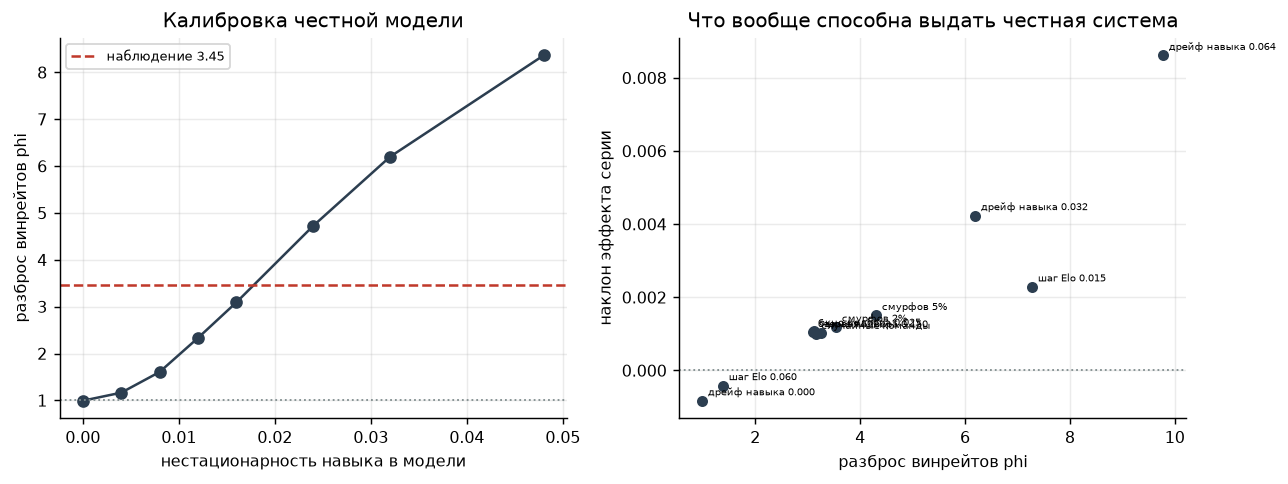
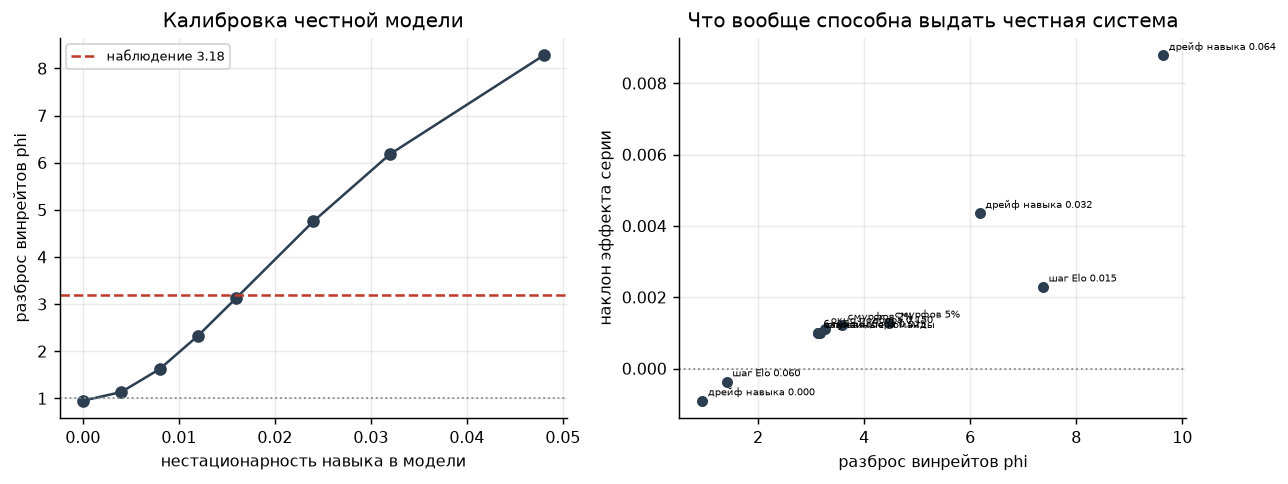
dota-mm-study: финальный прогон на 2.95 млн матчей
Итоговая выборка: 1274 игрока с выгруженной историей, 1.31 млн матчей в окне
исследования, 1050 игроков с историей от 200 матчей, 1146 матчей с составами —
все предрегистрированные цели по объёму достигнуты.

Результаты: phi=3.18 (жёсткая подкрутка отвергается), эффект серии +0.26 п.п. за
шаг при предсказании честной модели +0.10 п.п. и знаке, противоположном
подкрутке; канал состава нулевой с границей 0.24 п.п.

diff --git a/dota-mm-study/scripts/build_report.py b/dota-mm-study/scripts/build_report.py
@@ -121,7 +121,8 @@ def _summary(ab: dict, cd: dict, null_model: dict) -> str:
         f"сведение к 50% требует отношения меньше единицы.",
         "",
         f"Эффект серии на исход следующего матча оказался **{direction}**: "
-        f"{_pp(slope)} за каждый шаг серии (стандартная ошибка {_fmt(slope_se, 5)}). "
+        f"{_pp(slope)} за каждый шаг серии "
+        f"(стандартная ошибка {(slope_se or 0) * 100:.3f} п.п.). "
         f"Подкрутка предсказывает отрицательный знак — после победной серии "
         f"выигрывать должно становиться труднее. Наблюдается обратное.",
         "",
@@ -385,7 +386,7 @@ def _test_a_section(ab: dict, null_model: dict) -> str:
         f"(99% ДИ {_fmt(ci[0], 3)}-{_fmt(ci[1], 3)}) |",
         f"| Разброс истинных винрейтов | {_fmt(disp['true_sd'])} |",
         "",
-        f"**Вывод: {disp.get('verdict', '')}.**",
+        f"**Вывод — {disp.get('verdict', '')}.**",
         "",
         f"Содержательно это означает, что различия между игроками реальны: после "
         f"вычитания случайного шума стандартное отклонение истинного винрейта "
@@ -439,7 +440,7 @@ def _test_b_section(ab: dict, null_model: dict) -> str:
         "| Оценка | Наклон за шаг серии |",
         "| --- | --- |",
         f"| Наблюдение | {_pp(streaks.get('slope_real'))} "
-        f"(SE {_fmt(streaks.get('slope_real_se'), 5)}) |",
+        f"(SE {(streaks.get('slope_real_se') or 0) * 100:.3f} п.п.) |",
         f"| Наблюдение с контролем на движение ранга, пати и позицию в сессии | "
         f"{_pp(streaks.get('slope_real_controlled'))} |",
         f"| Предсказание честной модели | {_pp(streaks.get('slope_null_model'))} |",

diff --git a/dota-mm-study/scripts/run_tests_ab.py b/dota-mm-study/scripts/run_tests_ab.py
@@ -293,10 +293,16 @@ def _plot(tallies, disp_real, null_model, curve, fe_ind, names) -> None:
     ax.legend(fontsize=7)
 
     ax = axes[1]
+    # Нулевая серия — это первый матч игрока, ячейка почти пустая, и её
+    # доверительный интервал сжимал бы весь остальной график.
+    keep = curve.streak != 0
     ax.errorbar(
-        curve.streak,
-        curve.winrate,
-        yerr=[curve.winrate - curve.lo, curve.hi - curve.winrate],
+        curve.streak[keep],
+        curve.winrate[keep],
+        yerr=[
+            (curve.winrate - curve.lo)[keep],
+            (curve.hi - curve.winrate)[keep],
+        ],
         fmt="o-",
         color=ACCENT,
         capsize=3,

diff --git a/dota-mm-study/reports/report.md b/dota-mm-study/reports/report.md
@@ -4,15 +4,15 @@
 
 ## Короткий ответ
 
-Жёсткая подкрутка, то есть механизм, принудительно сводящий винрейт к 50%, **отвергается**. Разброс карьерных винрейтов оказался в 3.40 раза шире биномиального (99% ДИ 2.64-4.37), тогда как принудительное сведение к 50% требует отношения меньше единицы.
+Жёсткая подкрутка, то есть механизм, принудительно сводящий винрейт к 50%, **отвергается**. Разброс карьерных винрейтов оказался в 3.18 раза шире биномиального (99% ДИ 2.54-4.09), тогда как принудительное сведение к 50% требует отношения меньше единицы.
 
-Эффект серии на исход следующего матча оказался **положительный**: +0.25 п.п. за каждый шаг серии (стандартная ошибка 0.00031). Подкрутка предсказывает отрицательный знак — после победной серии выигрывать должно становиться труднее. Наблюдается обратное.
+Эффект серии на исход следующего матча оказался **положительный**: +0.26 п.п. за каждый шаг серии (стандартная ошибка 0.023 п.п.). Подкрутка предсказывает отрицательный знак — после победной серии выигрывать должно становиться труднее. Наблюдается обратное.
 
 Честная рейтинговая система, откалиброванная по наблюдаемому разбросу винрейтов, предсказывает наклон +0.10 п.п. Наблюдаемое значение того же знака и того же порядка.
 
-Самый отрицательный наклон, достижимый честной системой при разумных параметрах, составляет -0.08 п.п. Наблюдаемое значение лежит далеко в противоположной стороне, что даёт верхнюю границу на возможную подкрутку.
+Самый отрицательный наклон, достижимый честной системой при разумных параметрах, составляет -0.09 п.п. Наблюдаемое значение лежит далеко в противоположной стороне, что даёт верхнюю границу на возможную подкрутку.
 
-Тест на разделение механизмов показывает, что зависимость исхода от серии идёт через **собственную игру человека**, а не через состав команды: собственный перформанс меняется на +0.0029 стандартного отклонения за шаг серии.
+Тест на разделение механизмов показывает, что зависимость исхода от серии идёт через **собственную игру человека**, а не через состав команды: собственный перформанс меняется на +0.0031 стандартного отклонения за шаг серии.
 
 ## Данные
 
@@ -20,10 +20,10 @@
 | --- | --- |
 | Публичных матчей в позитивных контролях | 5,158,382 |
 | Игроков в выборке | 4,323 |
-| Историй выгружено | 960 |
-| Матчей игроков всего | 2,226,119 |
-| Матчей в основной выборке | 750,702 |
-| Игроков в основной выборке | 740 |
+| Историй выгружено | 1,274 |
+| Матчей игроков всего | 2,954,084 |
+| Матчей в основной выборке | 1,314,065 |
+| Игроков в основной выборке | 1,270 |
 | Матчей с полными составами | 1,146 |
 
 Рамка выборки — случайные публичные ranked-матчи со стратификацией по брекетам, разобранные на участников. Такая выборка взвешена по активности: чем чаще человек играет, тем вероятнее он в неё попадёт. Именно она отвечает на вопрос «как устроен типичный матч».
@@ -64,7 +64,7 @@
 
 Поэтому наблюдения сравниваются не с нулём, а с симулятором честного матчмейкинга: рейтинг по Elo, подбор строго по рейтингу, исход только от силы команд, никакой подкрутки по построению.
 
-Оказалось, что предсказания честной системы сильно зависят от того, насколько подвижен навык игроков: разброс винрейтов пробегает диапазон от 0.99 до 9.78, а наклон эффекта серии — от -0.08 п.п. до +0.86 п.п. Точечное сравнение с одной симуляцией было бы поэтому бессмысленным.
+Оказалось, что предсказания честной системы сильно зависят от того, насколько подвижен навык игроков: разброс винрейтов пробегает диапазон от 0.95 до 9.64, а наклон эффекта серии — от -0.09 п.п. до +0.88 п.п. Точечное сравнение с одной симуляцией было бы поэтому бессмысленным.
 
 Решение: единственный свободный параметр модели, нестационарность навыка, подбирается так, чтобы совпал наблюдаемый разброс винрейтов. После этого наклон эффекта серии перестаёт быть подгоняемой величиной и становится **предсказанием** модели, которое можно честно сравнить с наблюдением.
 
@@ -72,7 +72,7 @@
 
 ![Нулевая модель](figures/null_model.png)
 
-Честное замечание о пределах модели: наблюдаемая подвижность ранга (0.361 от разброса рангов в популяции) выше той, что воспроизводит откалиброванная модель. Расхождение ожидаемо — в Dota 2 есть сезонные пересчёты рейтинга и шум измерения `average_rank`, которых в модели нет.
+Честное замечание о пределах модели: наблюдаемая подвижность ранга (0.349 от разброса рангов в популяции) выше той, что воспроизводит откалиброванная модель. Расхождение ожидаемо — в Dota 2 есть сезонные пересчёты рейтинга и шум измерения `average_rank`, которых в модели нет.
 
 ## Негативный контроль: а увидели бы мы подкрутку, если бы она была
 
@@ -80,15 +80,15 @@
 
 | Внедрено, п.п. за шаг | Измеренный наклон | Средний z теста серий |
 | --- | --- | --- |
-| 0.00 | +0.05 п.п. | -0.083 |
-| 0.25 | -0.17 п.п. | +0.120 |
-| 0.50 | -0.40 п.п. | +0.313 |
-| 1.00 | -0.86 п.п. | +0.731 |
-| 2.00 | -1.70 п.п. | +1.464 |
+| 0.00 | +0.04 п.п. | -0.084 |
+| 0.25 | -0.17 п.п. | +0.124 |
+| 0.50 | -0.42 п.п. | +0.331 |
+| 1.00 | -0.86 п.п. | +0.738 |
+| 2.00 | -1.68 п.п. | +1.454 |
 
-Тест восстанавливает внедрённый эффект почти один к одному: при внедрении 2.0 п.п. измеренный наклон сдвигается на -1.75 п.п. Знак меняется уже при самой слабой из проверенных подкруток в 0.25 п.п.
+Тест восстанавливает внедрённый эффект почти один к одному: при внедрении 2.0 п.п. измеренный наклон сдвигается на -1.73 п.п. Знак меняется уже при самой слабой из проверенных подкруток в 0.25 п.п.
 
-Наблюдаемое значение +0.25 п.п. отстоит от результата самой слабой смоделированной подкрутки на 14 стандартных ошибок. Подкрутка такого размера в данных исключена.
+Наблюдаемое значение +0.26 п.п. отстоит от результата самой слабой смоделированной подкрутки на 18 стандартных ошибок. Подкрутка такого размера в данных исключена.
 
 Отдельная находка касается механизма. Если бы система перекашивала **составы** внутри матча, эффект был бы слабым при любой силе вмешательства: подобранные в один матч игроки почти равны по рейтингу, поэтому перестановка их между командами физически не способна сильно сдвинуть исход. Заметная подкрутка через состав потребовала бы расширения окна подбора, а это наблюдаемо — и проверяется отдельным каналом в тесте D.
 
@@ -100,19 +100,19 @@
 
 | Показатель | Значение |
 | --- | --- |
-| Игроков в когорте | 617 |
-| Матчей | 739,709 |
-| Средний винрейт | 0.5053 |
-| Наблюдаемый разброс | 0.0334 |
-| Разброс при чистой случайности | 0.0188 |
-| Коэффициент дисперсии phi | 3.401 (99% ДИ 2.642-4.368) |
-| Разброс истинных винрейтов | 0.0276 |
+| Игроков в когорте | 1,050 |
+| Матчей | 1,293,664 |
+| Средний винрейт | 0.5059 |
+| Наблюдаемый разброс | 0.0310 |
+| Разброс при чистой случайности | 0.0187 |
+| Коэффициент дисперсии phi | 3.184 (99% ДИ 2.537-4.091) |
+| Разброс истинных винрейтов | 0.0248 |
 
-**Вывод: сверхдисперсия: жёсткая подкрутка отвергается.**
+**Вывод — сверхдисперсия: жёсткая подкрутка отвергается.**
 
-Содержательно это означает, что различия между игроками реальны: после вычитания случайного шума стандартное отклонение истинного винрейта составляет 0.0276, то есть около 2.8 процентных пунктов. Система эти различия не стирает.
+Содержательно это означает, что различия между игроками реальны: после вычитания случайного шума стандартное отклонение истинного винрейта составляет 0.0248, то есть около 2.5 процентных пунктов. Система эти различия не стирает.
 
-Проверка на смурфов: после их исключения phi составляет 3.319 против 3.401 на полной выборке. Избыточный разброс не сводится к смурфам.
+Проверка на смурфов: после их исключения phi составляет 3.127 против 3.184 на полной выборке. Избыточный разброс не сводится к смурфам.
 
 ![Тесты A и B](figures/tests_ab.png)
 
@@ -120,51 +120,52 @@
 
 | Серия перед матчем | Матчей | Доля побед | 99% ДИ |
 | --- | --- | --- | --- |
-| -5 | 26,679 | 0.4917 | 0.4838-0.4995 |
-| -4 | 24,819 | 0.4943 | 0.4861-0.5024 |
-| -3 | 48,263 | 0.4996 | 0.4938-0.5055 |
-| -2 | 94,206 | 0.4989 | 0.4947-0.5031 |
-| -1 | 185,252 | 0.5035 | 0.5005-0.5064 |
-| +1 | 185,881 | 0.5050 | 0.5020-0.5080 |
-| +2 | 91,825 | 0.5130 | 0.5088-0.5173 |
-| +3 | 46,081 | 0.5079 | 0.5019-0.5139 |
-| +4 | 22,936 | 0.5254 | 0.5169-0.5339 |
-| +5 | 24,671 | 0.5317 | 0.5235-0.5399 |
+| -5 | 46,587 | 0.4901 | 0.4842-0.4961 |
+| -4 | 43,137 | 0.4953 | 0.4891-0.5015 |
+| -3 | 84,040 | 0.4995 | 0.4950-0.5039 |
+| -2 | 164,684 | 0.5007 | 0.4975-0.5039 |
+| -1 | 324,136 | 0.5035 | 0.5013-0.5058 |
+| +0 | 160 | 0.5500 | 0.4487-0.6473 |
+| +1 | 325,098 | 0.5059 | 0.5036-0.5081 |
+| +2 | 161,140 | 0.5119 | 0.5087-0.5151 |
+| +3 | 80,759 | 0.5111 | 0.5066-0.5156 |
+| +4 | 40,503 | 0.5246 | 0.5182-0.5310 |
+| +5 | 43,821 | 0.5342 | 0.5280-0.5403 |
 
 Сырые доли смешивают два разных явления: сильные игроки и выигрывают чаще, и чаще имеют длинные победные серии. Поэтому основная оценка делается с фиксированными эффектами игрока, то есть сравнивает матчи одного и того же человека между собой, а стандартные ошибки кластеризуются по игроку.
 
 | Оценка | Наклон за шаг серии |
 | --- | --- |
-| Наблюдение | +0.25 п.п. (SE 0.00031) |
-| Наблюдение с контролем на движение ранга, пати и позицию в сессии | +0.27 п.п. |
+| Наблюдение | +0.26 п.п. (SE 0.023 п.п.) |
+| Наблюдение с контролем на движение ранга, пати и позицию в сессии | +0.28 п.п. |
 | Предсказание честной модели | +0.10 п.п. |
-| Разница | +0.14 п.п. (p=0.0000) |
+| Разница | +0.16 п.п. (p=0.0000) |
 
 **Знак противоположен предсказанию подкрутки.** Гипотеза о наказании за победную серию требует отрицательного наклона: после побед выигрывать должно становиться труднее. В данных наблюдается обратное — победы слабо, но устойчиво предсказывают следующую победу.
 
-Проверка гипотезы о таргетированном вмешательстве: наклон после побед составляет +0.43 п.п., после поражений +0.10 п.п. Разница +0.33 п.п. при p=0.0004.
+Проверка гипотезы о таргетированном вмешательстве: наклон после побед составляет +0.45 п.п., после поражений +0.11 п.п. Разница +0.34 п.п. при p=0.0000.
 
-Непараметрическая проверка структуры последовательности (тест Уолда-Вольфовица) по 668 игрокам даёт средний z = -0.326: серии длиннее, чем при случайной последовательности. Подкрутка предсказывала бы противоположный знак, поскольку сглаживание серий — это и есть её наблюдаемое проявление.
+Непараметрическая проверка структуры последовательности (тест Уолда-Вольфовица) по 1,150 игрокам даёт средний z = -0.335: серии длиннее, чем при случайной последовательности. Подкрутка предсказывала бы противоположный знак, поскольку сглаживание серий — это и есть её наблюдаемое проявление.
 
 ## Тест C: перекос состава команды
 
 Самый прямой из возможных тестов. Если система «наказывает» за победную серию, у неё есть ровно один рычаг — состав матча. Поэтому измеряется разница средней силы четырёх союзников и пяти соперников как функция серии. При честном подборе это математический ноль при любой серии.
 
-Наблюдений: 1,097 по 683 игрокам. Средний перекос +0.0790 (SE 0.1210).
+Наблюдений: 1,484 по 1,067 игрокам. Средний перекос +0.0556 (SE 0.1057).
 
 | Серия | Наблюдений | Перекос союзники минус соперники |
 | --- | --- | --- |
-| -3 | 212 | -0.142 ± 0.284 |
-| -2 | 183 | -0.016 ± 0.348 |
-| -1 | 169 | +0.319 ± 0.282 |
-| +0 | 1 | -4.076 ± нет данных |
-| +1 | 183 | +0.351 ± 0.259 |
-| +2 | 174 | -0.211 ± 0.306 |
-| +3 | 175 | +0.242 ± 0.291 |
+| -3 | 274 | +0.001 ± 0.251 |
+| -2 | 237 | -0.272 ± 0.306 |
+| -1 | 248 | +0.071 ± 0.264 |
+| +0 | 1 | -4.232 ± нет данных |
+| +1 | 272 | +0.372 ± 0.216 |
+| +2 | 227 | -0.128 ± 0.260 |
+| +3 | 225 | +0.272 ± 0.259 |
 
-Наклон перекоса по серии: +0.04226 (SE 0.08447). Подкрутка требует значимо отрицательного значения.
+Наклон перекоса по серии: +0.04444 (SE 0.08720). Подкрутка требует значимо отрицательного значения.
 
-Ограничение теста: в среднем 6% участников матча скрывают профиль, и их сила ненаблюдаема.
+Ограничение теста: в среднем 5% участников матча скрывают профиль, и их сила ненаблюдаема.
 
 ![Тесты C и D](figures/tests_cd.png)
 
@@ -179,12 +180,12 @@
 
 | Канал | Изменение за шаг серии | 99% ДИ | Наблюдений |
 | --- | --- | --- | --- |
-| собственный перформанс игрока | +0.00288 | +0.00149 … +0.00427 | 846,395 |
-| сила союзников | +0.12518 | -0.19068 … +0.44105 | 532 |
-| сила соперников | +0.08032 | -0.19472 … +0.35537 | 532 |
-| перекос состава | +0.04486 | -0.14775 … +0.23747 | 532 |
+| собственный перформанс игрока | +0.00306 | +0.00184 … +0.00427 | 1,314,062 |
+| сила союзников | +0.12063 | -0.20011 … +0.44137 | 537 |
+| сила соперников | +0.07311 | -0.21160 … +0.35782 | 537 |
+| перекос состава | +0.04752 | -0.15110 … +0.24614 | 537 |
 
-Собственный перформанс игрока растёт вместе с серией: +0.00288 стандартного отклонения за шаг. Это означает, что зависимость исхода от серии в значительной мере порождается самим человеком, а не подбором соперников.
+Собственный перформанс игрока растёт вместе с серией: +0.00306 стандартного отклонения за шаг. Это означает, что зависимость исхода от серии в значительной мере порождается самим человеком, а не подбором соперников.
 
 ## Кто населяет рейтинг: смурфы, слабые игроки и постоянные жители
 
@@ -192,13 +193,13 @@
 
 | Когорта | Игроков | Винрейт | Подъём ранга в месяц | Перформанс |
 | --- | --- | --- | --- | --- |
-| житель рейтинга | 612 | 0.5068 | +0.32 | +0.00 |
-| смурф | 34 | 0.5473 | +4.10 | +1.42 |
-| слабый игрок | 34 | 0.4468 | -0.75 | -1.47 |
+| житель рейтинга | 1,083 | 0.5078 | +0.36 | -0.02 |
+| смурф | 61 | 0.5521 | +4.72 | +1.61 |
+| слабый игрок | 61 | 0.4529 | -0.44 | -1.29 |
 
 Признаки смурфа: быстрый подъём по брекетам, перформанс выше уровня своего брекета с самых первых матчей, молодой аккаунт. Возраст аккаунта оценивается по двум независимым источникам — полной истории матчей до окна исследования и калибровочной кривой, связывающей номер аккаунта с датой регистрации, поскольку Steam выдаёт номера почти монотонно по времени.
 
-Проверка на заведомых случаях (молодые аккаунты, добравшиеся до Divine, против аккаунтов с многолетней стабильной историей) даёт AUC 0.815. AUC разделения заведомых смурфов и жителей рейтинга; без возрастной компоненты 0.784.
+Проверка на заведомых случаях (молодые аккаунты, добравшиеся до Divine, против аккаунтов с многолетней стабильной историей) даёт AUC 0.845. AUC разделения заведомых смурфов и жителей рейтинга; без возрастной компоненты 0.805.
 
 Это проверка согласованности, а не независимая валидация: настоящей разметки смурфов не существует.
 
@@ -208,9 +209,9 @@
 
 **Свидетельств подкрутки не обнаружено, и это утверждение количественное.**
 
-1. Жёсткая подкрутка отвергается: разброс винрейтов в 3.40 раза шире случайного, тогда как принуждение к 50% требует значения меньше единицы. Устойчивые различия между игроками существуют и системой не стираются.
+1. Жёсткая подкрутка отвергается: разброс винрейтов в 3.18 раза шире случайного, тогда как принуждение к 50% требует значения меньше единицы. Устойчивые различия между игроками существуют и системой не стираются.
 
-2. Направление эффекта серии противоположно предсказанию подкрутки: наблюдается +0.25 п.п. за шаг, то есть победы слегка предсказывают победы, а не наоборот.
+2. Направление эффекта серии противоположно предсказанию подкрутки: наблюдается +0.26 п.п. за шаг, то есть победы слегка предсказывают победы, а не наоборот.
 
 3. Наблюдаемая зависимость исхода от серии по знаку и порядку совпадает с тем, что даёт заведомо честная система (+0.10 п.п.).
 
@@ -231,29 +232,29 @@
 
 | Тест | Метрика | Значение | 99% ДИ | n | Примечание |
 | --- | --- | --- | --- | --- | --- |
-| A_dispersion | phi_real | 3.40086 | 2.6423 … 4.3676 | 617 | сверхдисперсия: жёсткая подкрутка отвергается |
+| A_dispersion | phi_real | 3.18449 | 2.5371 … 4.0912 | 1,050 | сверхдисперсия: жёсткая подкрутка отвергается |
 | A_dispersion | phi_sim | 0.71502 | 0.6783 … 0.7513 | 6,000 | нулевая модель |
-| A_dispersion | true_winrate_sd | 0.02764 | — | 617 | разброс истинных винрейтов после снятия биномиального шума |
-| B_streaks | asymmetry | 0.00326 | — | 750,702 | наклон после побед минус после поражений, p=0.0004 |
-| B_streaks | runs_mean_z | -0.32587 | — | 668 | отрицательный знак означает более длинные серии, чем при случайности |
-| B_streaks | slope_diff | 0.00144 | — | 750,702 |  |
-| B_streaks | slope_diff_p | 0.00001 | — | 750,702 | реальность против откалиброванной честной модели |
-| B_streaks | slope_null_model | 0.00104 | — | 750,702 |  |
-| B_streaks | slope_real | 0.00247 | — | 750,702 |  |
-| B_streaks | slope_real_controlled | 0.00265 | — | 750,702 |  |
+| A_dispersion | true_winrate_sd | 0.02478 | — | 1,050 | разброс истинных винрейтов после снятия биномиального шума |
+| B_streaks | asymmetry | 0.00336 | — | 1,314,065 | наклон после побед минус после поражений, p=0.0000 |
+| B_streaks | runs_mean_z | -0.33454 | — | 1,150 | отрицательный знак означает более длинные серии, чем при случайности |
+| B_streaks | slope_diff | 0.00159 | — | 1,314,065 |  |
+| B_streaks | slope_diff_p | 0.00000 | — | 1,314,065 | реальность против откалиброванной честной модели |
+| B_streaks | slope_null_model | 0.00099 | — | 1,314,065 |  |
+| B_streaks | slope_real | 0.00258 | — | 1,314,065 |  |
+| B_streaks | slope_real_controlled | 0.00276 | — | 1,314,065 |  |
 | B_streaks | slope_sim | -0.00070 | — | 340,253 |  |
-| C_roster | channel_in_winrate | 0.00052 | -0.0023 … 0.0033 | 1,097 | вклад подбора состава в эффект серии, в вероятности победы |
-| C_roster | delta_slope | 0.04226 | -0.1753 … 0.2598 | 1,097 | перекос состава как функция серии; ноль — честный подбор |
-| C_roster | delta_slope_rank_only | 0.10650 | -0.1799 … 0.3929 | 1,097 | проверка на однородной мере силы |
-| C_roster | mean_delta | 0.07897 | -0.2327 … 0.3907 | 1,097 |  |
-| D_cohorts | smurf_auc | 0.81484 | — | 323 | AUC разделения заведомых смурфов и жителей рейтинга; без возрастной компоненты 0.784 |
-| D_cohorts | smurf_share | 0.05007 | — | 679 |  |
-| D_cohorts | weak_share | 0.05007 | — | 679 |  |
-| D_decomposition | ally_skill | 0.12518 | -0.1907 … 0.4410 | 532 | сила союзников |
-| D_decomposition | delta | 0.04486 | -0.1477 … 0.2375 | 532 | перекос состава |
-| D_decomposition | enemy_skill | 0.08032 | -0.1947 … 0.3554 | 532 | сила соперников |
-| D_decomposition | own_performance | 0.00288 | 0.0015 … 0.0043 | 846,395 | собственный перформанс |
-| D_decomposition | skill_spread | -0.03116 | -0.1366 … 0.0742 | 532 | разброс силы в матче |
+| C_roster | channel_in_winrate | 0.00056 | -0.0024 … 0.0035 | 1,484 | вклад подбора состава в эффект серии, в вероятности победы |
+| C_roster | delta_slope | 0.04444 | -0.1802 … 0.2691 | 1,484 | перекос состава как функция серии; ноль — честный подбор |
+| C_roster | delta_slope_rank_only | 0.10428 | -0.1823 … 0.3909 | 1,479 | проверка на однородной мере силы |
+| C_roster | mean_delta | 0.05564 | -0.2167 … 0.3280 | 1,484 |  |
+| D_cohorts | smurf_auc | 0.84536 | — | 548 | AUC разделения заведомых смурфов и жителей рейтинга; без возрастной компоненты 0.805 |
+| D_cohorts | smurf_share | 0.05066 | — | 1,204 |  |
+| D_cohorts | weak_share | 0.05066 | — | 1,204 |  |
+| D_decomposition | ally_skill | 0.12063 | -0.2001 … 0.4414 | 537 | сила союзников |
+| D_decomposition | delta | 0.04752 | -0.1511 … 0.2461 | 537 | перекос состава |
+| D_decomposition | enemy_skill | 0.07311 | -0.2116 … 0.3578 | 537 | сила соперников |
+| D_decomposition | own_performance | 0.00306 | 0.0018 … 0.0043 | 1,314,062 | собственный перформанс |
+| D_decomposition | skill_spread | -0.03887 | -0.1460 … 0.0682 | 537 | разброс силы в матче |
 | E_controls | hero_winrate_spread | 0.13086 | — | 19,769,530 | Nature's Prophet 0.418 .. Wraith King 0.548 |
 | E_controls | party_advantage | -0.01000 | -0.0183 … -0.0017 | 265,354 | пати 0.5060 против соло 0.5092; поле party_size заполнено у 34% матчей |
 | E_controls | radiant_winrate | 0.53069 | 0.5301 … 0.5313 | 5,158,382 | публичные ranked-матчи за 10 суток |
@@ -267,11 +268,11 @@
 | E_controls | radiant_winrate_duration_long | 0.49559 | 0.4946 … 0.4966 | 1,689,471 |  |
 | E_controls | radiant_winrate_duration_medium | 0.53606 | 0.5353 … 0.5368 | 3,001,603 |  |
 | E_controls | radiant_winrate_duration_short | 0.62303 | 0.6212 … 0.6249 | 467,308 |  |
-| negative_control | outcome_rig_0.00pp | 0.00046 | — | 4,383 | наклон, который дал бы тест при подкрутке такой силы |
-| negative_control | outcome_rig_0.25pp | -0.00168 | — | 4,383 | наклон, который дал бы тест при подкрутке такой силы |
-| negative_control | outcome_rig_0.50pp | -0.00403 | — | 4,383 | наклон, который дал бы тест при подкрутке такой силы |
-| negative_control | outcome_rig_1.00pp | -0.00859 | — | 4,383 | наклон, который дал бы тест при подкрутке такой силы |
-| negative_control | outcome_rig_2.00pp | -0.01702 | — | 4,383 | наклон, который дал бы тест при подкрутке такой силы |
-| null_model | fair_phi_min | 0.99251 | — | — | минимум разброса винрейтов, достижимый честной системой |
-| null_model | fair_slope_min | -0.00083 | — | — | самый отрицательный наклон серии, достижимый честной системой |
-| null_model | fitted_slope | 0.00104 | 0.0008 … 0.0013 | — | предсказание честной модели, откалиброванной на phi=3.45 |
+| negative_control | outcome_rig_0.00pp | 0.00044 | — | 4,361 | наклон, который дал бы тест при подкрутке такой силы |
+| negative_control | outcome_rig_0.25pp | -0.00170 | — | 4,361 | наклон, который дал бы тест при подкрутке такой силы |
+| negative_control | outcome_rig_0.50pp | -0.00421 | — | 4,361 | наклон, который дал бы тест при подкрутке такой силы |
+| negative_control | outcome_rig_1.00pp | -0.00865 | — | 4,361 | наклон, который дал бы тест при подкрутке такой силы |
+| negative_control | outcome_rig_2.00pp | -0.01685 | — | 4,361 | наклон, который дал бы тест при подкрутке такой силы |
+| null_model | fair_phi_min | 0.95183 | — | — | минимум разброса винрейтов, достижимый честной системой |
+| null_model | fair_slope_min | -0.00090 | — | — | самый отрицательный наклон серии, достижимый честной системой |
+| null_model | fitted_slope | 0.00099 | 0.0008 … 0.0012 | — | предсказание честной модели, откалиброванной на phi=3.18 |
